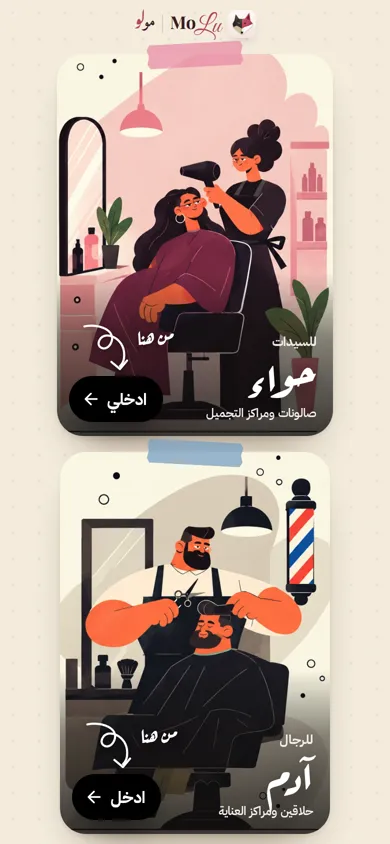
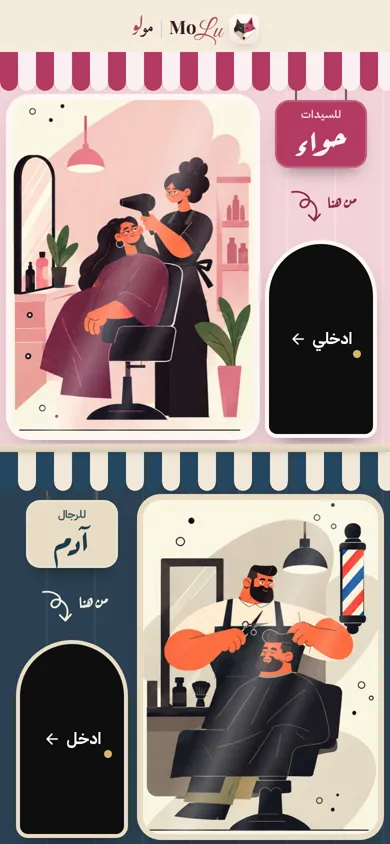
MoLu gate: «شارع مولو» — two shopfronts, one above the other
Replaces the split screen. حواء is a blush salon front (rose-striped
awning, rose sign), آدم a navy barber front (navy-striped awning, brass
sign); each shop window has the picture's own shape so the whole
illustration shows; a black arched door says «ادخلي / ادخل» with the
hand-drawn «من هنا» pointing at it; the MoLu logo sits on the roof.
2D motion only: awnings roll down, signs swing and settle, windows light
up, the arrow draws; choosing opens the home screen with a quick fade.

Claude-Session: https://claude.ai/code/session_01YDDWUymGc1xUJNLzFw3adr

diff --git a/molu/css/gate.css b/molu/css/gate.css
@@ -1,5 +1,7 @@
-/* Gate — split screen: حواء fills the top half, آدم the bottom half, edge to edge; the MoLu medallion
-   sits where they meet. Static: no app CSS/JS. Motion: halves fade in, medallion pops, arrows draw. */
+/* Gate — «شارع مولو»: a little street of two shopfronts, one above the other.
+   حواء: blush salon front, rose-striped awning, rose sign. آدم: navy barber front, navy-striped awning, brass sign.
+   Each shop window shows its whole illustration (window = the picture's own shape); a black arched door says «ادخلي/ادخل».
+   Static: no app CSS/JS. Motion (2D, quick): awnings roll down, signs swing and settle, windows light up, «من هنا» draws. */
 @view-transition { navigation: auto; }
 ::view-transition-old(root), ::view-transition-new(root) { animation-duration: .15s; }
 :root { --ease: cubic-bezier(.22, 1, .36, 1); --cream: #F4ECDD; }
@@ -8,50 +10,73 @@ html, body { margin: 0; height: 100%; background: var(--cream); }
 body { color: #2D2D2D; font-family: 'IBM Plex Sans Arabic', system-ui, sans-serif; -webkit-font-smoothing: antialiased; overscroll-behavior: none; }
 a { color: inherit; text-decoration: none; -webkit-tap-highlight-color: transparent; }
 
-.split { position: relative; height: 100dvh; min-height: 560px; display: grid; grid-template-rows: minmax(0, 1fr) minmax(0, 1fr); gap: 8px; background: var(--cream); }
-@media (min-width: 820px) { .split { grid-template-rows: none; grid-template-columns: 1fr 1fr; } }
+.street { height: 100dvh; min-height: 600px; display: grid; grid-template-rows: auto minmax(0, 1fr) 8px minmax(0, 1fr); padding: max(6px, env(safe-area-inset-top)) 0 0; background: var(--cream); overflow: hidden; }
 
-.half { position: relative; isolation: isolate; display: block; min-height: 0; overflow: hidden; background: #FAF6E2; animation: show .45s var(--ease) both; }
-.half.eve { border-radius: 0 0 30px 30px; }
-.half.adam { border-radius: 30px 30px 0 0; animation-delay: .07s; }
-@media (min-width: 820px) { .half.eve { border-radius: 0 30px 30px 0; } .half.adam { border-radius: 30px 0 0 30px; } }
-.half img { position: absolute; inset: 0; z-index: -2; width: 100%; height: 100%; object-fit: cover; object-position: 50% 38%; transition: transform .25s var(--ease); }
-.half.adam img { object-position: 50% 30%; }
-.half::after { content: ''; position: absolute; inset: 45% 0 0; z-index: -1; background: linear-gradient(180deg, transparent, rgba(16, 13, 11, .5) 45%, rgba(16, 13, 11, .82)); }
-.half.eve::after { inset: 40% 0 0; }
-.half:active img { transform: scale(1.02); }
-.half:focus-visible { outline: 3px solid #2D2D2D; outline-offset: -6px; }
+/* roof with the MoLu name */
+.roof { display: flex; justify-content: center; align-items: center; height: 46px; }
+.molu-logo { display: inline-flex; align-items: center; gap: 7px; }
+.logo-mark { width: 30px; height: 30px; border-radius: 9px; flex: none; box-shadow: 0 4px 12px -6px rgba(90, 42, 51, .45); }
+.logo-latin { display: inline-flex; align-items: baseline; line-height: 1; }
+.logo-latin .mo { font: 700 1.15rem/1 'MoLu Mo', 'Playfair Display', Georgia, serif; color: #3A1C24; }
+.logo-latin .lu { display: inline-block; font: 400 1.6rem/1 'MoLu Lu', 'Great Vibes', cursive; color: #B0485C; margin-left: -.08em; transform: translateY(.12em); }
+.logo-sep { width: 1px; height: 18px; background: #D9CDB9; }
+.logo-ar { display: inline-flex; align-items: baseline; font-size: 1.05rem; line-height: 1; }
+.logo-ar .mo { font-family: 'MoLu Naskh', 'Amiri', serif; font-weight: 700; color: #3A1C24; }
+.logo-ar .lu { display: inline-block; font-family: 'MoLu Nastaliq', 'Gulzar', serif; font-size: 1.35em; color: #B0485C; margin-inline-start: -.12em; transform: translateY(.12em); }
 
-.cap { position: absolute; inset-inline: 20px 150px; bottom: 18px; display: grid; color: #fff; }
-.half.eve .cap { bottom: 30px; }
-.cap small { font: 700 .82rem 'IBM Plex Sans Arabic', sans-serif; opacity: .88; }
-.cap b { font: 700 clamp(3rem, 15vw, 5.4rem)/1.05 'Aref Ruqaa', serif; padding-bottom: .3em; margin-bottom: -.2em; text-shadow: 0 4px 18px rgba(0, 0, 0, .4); }
-.cap span { font: 600 .8rem/1.4 'IBM Plex Sans Arabic', sans-serif; opacity: .92; }
+.ledge { display: block; background: linear-gradient(#E9DFCB, #D8CBB3); box-shadow: 0 3px 6px -3px rgba(60, 40, 20, .4); position: relative; z-index: 3; }
 
-/* iPhone-style black pill + the hand-drawn «من هنا» pointing at it */
-.go { position: absolute; inset-inline-end: 18px; bottom: 20px; display: inline-flex; align-items: center; gap: 8px; height: 52px; padding: 0 20px 0 14px; border-radius: 26px;
-  background: #000; color: #fff; font: 700 1.05rem 'IBM Plex Sans Arabic', -apple-system, system-ui, sans-serif; box-shadow: 0 12px 26px -10px rgba(0, 0, 0, .7); }
-.half.eve .go { bottom: 32px; }
-.go svg { transition: transform .2s var(--ease); }
-.half:active .go svg { transform: translateX(-4px); }
-.hint { position: absolute; z-index: 2; inset-inline-end: 24px; bottom: 78px; display: flex; align-items: flex-end; color: #fff; pointer-events: none; }
-.half.eve .hint { bottom: 90px; }
-.hint span { font: 700 1.3rem/1 'Aref Ruqaa', serif; text-shadow: 0 2px 10px rgba(0, 0, 0, .55); transform: translateY(-26px); animation: fadein .3s .5s ease-out both; }
-.squig { width: 64px; height: 50px; fill: none; stroke: #fff; stroke-width: 3; stroke-linecap: round; stroke-linejoin: round; filter: drop-shadow(0 2px 4px rgba(0, 0, 0, .45)); transform: scaleX(-1); }
-.squig path { stroke-dasharray: 1; stroke-dashoffset: 1; animation: draw .6s .55s ease-out forwards; }
-.squig .head { animation-delay: 1.1s; animation-duration: .2s; }
+/* a shop */
+.shop { --facade: #F2D3D8; --trim: #B23A63; --stripe2: #FBEFF1; --frame: #FFF7F5; --plaque: #B23A63; --plaque-ink: #FFF4F0; --hint: #8E2B4F;
+  position: relative; display: grid; grid-template-rows: 30px minmax(0, 1fr); min-height: 0;
+  background: repeating-linear-gradient(90deg, rgba(255, 255, 255, .0) 0 46px, rgba(255, 255, 255, .22) 46px 48px), var(--facade); }
+.shop.adam { --facade: #2B4253; --trim: #24475F; --stripe2: #F1E8D8; --frame: #E9DCC4; --plaque: #E9DCC4; --plaque-ink: #1F3A4E; --hint: #F4ECDD;
+  background: repeating-linear-gradient(90deg, rgba(255, 255, 255, 0) 0 46px, rgba(255, 255, 255, .05) 46px 48px), var(--facade); }
 
-/* the MoLu medallion where the two halves meet */
-.medal { position: absolute; z-index: 5; left: 50%; top: 50%; translate: -50% -50%; display: inline-flex; align-items: center; gap: 6px; height: 54px; padding: 0 16px 0 8px; border-radius: 27px;
-  background: var(--cream); box-shadow: 0 0 0 5px var(--cream), 0 10px 24px -10px rgba(60, 40, 20, .5); animation: pop .4s .2s cubic-bezier(.3, 1.4, .5, 1) both; direction: ltr; }
-.logo-mark { width: 38px; height: 38px; border-radius: 11px; flex: none; }
-.medal-word { display: inline-flex; align-items: baseline; line-height: 1; }
-.medal-word .mo { font: 700 1.3rem/1 'MoLu Mo', 'Playfair Display', Georgia, serif; color: #3A1C24; }
-.medal-word .lu { display: inline-block; font: 400 1.8rem/1 'MoLu Lu', 'Great Vibes', cursive; color: #B0485C; margin-left: -.08em; transform: translateY(.12em); }
+/* striped awning with a scalloped edge — rolls down on load */
+.awning { position: relative; z-index: 2; display: block; transform-origin: 50% 0; animation: unroll .38s var(--ease) both;
+  background: repeating-linear-gradient(90deg, var(--trim) 0 18px, var(--stripe2) 18px 36px); box-shadow: 0 6px 10px -6px rgba(0, 0, 0, .35); }
+.awning::after { content: ''; position: absolute; inset-inline: 0; bottom: -9px; height: 9px;
+  background: radial-gradient(circle at 9px 0, var(--trim) 8.6px, transparent 9px) 0 0 / 36px 9px repeat-x,
+              radial-gradient(circle at 27px 0, var(--stripe2) 8.6px, transparent 9px) 0 0 / 36px 9px repeat-x; }
+.shop.adam .awning { animation-delay: .08s; }
 
-@keyframes show { from { opacity: 0; } }
-@keyframes pop { from { opacity: 0; scale: .5; } }
+.facade { container-type: size; min-height: 0; display: flex; align-items: flex-end; gap: 10px; padding: 18px 12px 10px; direction: ltr; }
+.shop.adam .facade { flex-direction: row-reverse; }   /* حواء's window on the left, آدم's on the right — as in the artwork */
+
+/* the shop window: exactly the picture's shape, so the whole illustration shows */
+.window { position: relative; flex: none; height: 100%; max-width: 68cqw; aspect-ratio: var(--ar); border-radius: 18px; overflow: hidden; background: #FAF6E2;
+  box-shadow: 0 0 0 6px var(--frame), 0 14px 28px -12px rgba(0, 0, 0, .5); }
+.window img { display: block; width: 100%; height: 100%; object-fit: cover; animation: lights .6s .15s ease-out both; }
+.shop.adam .window img { animation-delay: .25s; }
+.glass { position: absolute; inset: 0; background: linear-gradient(115deg, transparent 42%, rgba(255, 255, 255, .28) 50%, transparent 58%), linear-gradient(115deg, transparent 60%, rgba(255, 255, 255, .14) 64%, transparent 68%); pointer-events: none; }
+
+/* sign, «من هنا», door */
+.side { flex: 1; min-width: 0; height: 100%; display: flex; flex-direction: column; align-items: center; justify-content: space-between; gap: 6px; direction: rtl; }
+.sign { position: relative; display: grid; justify-items: center; min-width: 92px; padding: 6px 14px 4px; border-radius: 14px; background: var(--plaque); color: var(--plaque-ink);
+  box-shadow: 0 10px 18px -10px rgba(0, 0, 0, .55), inset 0 0 0 2px rgba(255, 255, 255, .18); transform-origin: 50% -14px; animation: swing 1s .3s both; }
+.sign::before, .sign::after { content: ''; position: absolute; top: -16px; width: 2px; height: 16px; background: #6B5E50; }
+.sign::before { left: 22%; } .sign::after { right: 22%; }
+.sign small { font: 700 .7rem 'IBM Plex Sans Arabic', sans-serif; opacity: .85; }
+.sign b { font: 700 clamp(1.9rem, 9vw, 2.8rem)/1.1 'Aref Ruqaa', serif; padding-bottom: .18em; margin-top: -.1em; }
+.shop.adam .sign { animation-delay: .4s; }
+.hint { display: flex; align-items: flex-end; color: var(--hint); pointer-events: none; }
+.hint span { font: 700 1.05rem/1 'Aref Ruqaa', serif; transform: translateY(-14px); animation: fadein .3s .7s ease-out both; }
+.squig { width: 42px; height: 34px; fill: none; stroke: var(--hint); stroke-width: 2.6; stroke-linecap: round; stroke-linejoin: round; transform: scaleX(-1); }
+.squig path { stroke-dasharray: 1; stroke-dashoffset: 1; animation: draw .5s .75s ease-out forwards; }
+.squig .head { animation-delay: 1.2s; animation-duration: .18s; }
+.door { position: relative; display: grid; place-items: center; width: min(100%, 104px); flex: 1; max-height: 190px; min-height: 120px; border-radius: 52px 52px 8px 8px; background: #0E0E0E; color: #fff;
+  box-shadow: 0 0 0 4px var(--frame), 0 12px 24px -10px rgba(0, 0, 0, .7); transition: transform .16s ease-out; animation: fadein .35s .3s ease-out both; }
+.door .lbl { display: inline-flex; align-items: center; gap: 5px; font: 700 1rem 'IBM Plex Sans Arabic', -apple-system, system-ui, sans-serif; }
+.knob { position: absolute; top: 56%; inset-inline-start: 12px; width: 8px; height: 8px; border-radius: 50%; background: #D8B46A; }
+.shop:active .door { transform: scale(.95); }
+.shop:focus-visible { outline: 3px solid var(--trim); outline-offset: -4px; }
+
+@keyframes unroll { from { transform: scaleY(0); } }
+@keyframes swing { 0% { opacity: 0; transform: rotate(-16deg); } 35% { opacity: 1; transform: rotate(9deg); } 60% { transform: rotate(-5deg); } 80% { transform: rotate(2deg); } 100% { transform: rotate(0); } }
+@keyframes lights { from { filter: brightness(.45) saturate(.5); } }
 @keyframes draw { to { stroke-dashoffset: 0; } }
 @keyframes fadein { from { opacity: 0; } }
 .ms { display: block; flex: none; }
-@media (prefers-reduced-motion: reduce) { .half, .medal, .hint span { animation: none; } .squig path { animation: none; stroke-dashoffset: 0; } }
+@media (min-width: 820px) { .street { grid-template-rows: auto minmax(0, 1fr) 8px minmax(0, 1fr); max-width: 760px; margin: 0 auto; } }
+@media (prefers-reduced-motion: reduce) { .awning, .sign, .window img, .door, .hint span { animation: none; } .squig path { animation: none; stroke-dashoffset: 0; } }

diff --git a/molu/index.html b/molu/index.html
@@ -14,20 +14,31 @@
 <link rel="prefetch" href="explore.html">
 </head>
 <body>
-<main class="split" id="gate">
-  <a class="half eve" href="explore.html?s=eve" data-k="eve" aria-label="ادخلي قسم حواء — صالونات ومراكز التجميل للسيدات">
-    <img src="img/eve-full-960.webp" srcset="img/eve-full-560.webp 560w, img/eve-full-960.webp 628w" sizes="100vw" width="628" height="868" alt="" decoding="async" fetchpriority="high">
-    <span class="cap"><small>للسيدات</small><b>حواء</b><span>صالونات ومراكز التجميل</span></span>
-    <span class="hint" aria-hidden="true"><span>من هنا</span><svg class="squig" viewBox="0 0 90 70" aria-hidden="true"><path pathLength="1" d="M74 6C52 2 30 12 36 28s24 8 16-4-34-2-34 22c0 8 2 12 6 16"/><path pathLength="1" class="head" d="M14 54l10 12 12-10"/></svg></span>
-    <span class="go">ادخلي<svg class="ms " viewBox="0 -960 960 960" width="20" height="20" aria-hidden="true"><path fill="currentColor" d="m313-440 196 196q12 12 11.5 28T508-188q-12 11-28 11.5T452-188L188-452q-6-6-8.5-13t-2.5-15q0-8 2.5-15t8.5-13l264-264q11-11 27.5-11t28.5 11q12 12 12 28.5T508-715L313-520h447q17 0 28.5 11.5T800-480q0 17-11.5 28.5T760-440H313Z"/></svg></span>
+<main class="street" id="gate">
+  <header class="roof"><a class="molu-logo" href="index.html" aria-label="MoLu مولو"><svg class="logo-mark" aria-hidden="true" xmlns="http://www.w3.org/2000/svg" viewBox="0 0 100 100"><defs><linearGradient id="b" x1="0" y1="0" x2="0" y2="1"><stop offset="0" stop-color="#fffaf7"/><stop offset="1" stop-color="#f3e4de"/></linearGradient><filter id="sh" x="-20%" y="-20%" width="140%" height="150%"><feDropShadow dx="0" dy="1.8" stdDeviation="1.8" flood-color="#5a2a33" flood-opacity=".28"/></filter></defs><rect width="100" height="100" rx="22" fill="url(#b)"/><g transform="translate(7 6.14) scale(0.86)" filter="url(#sh)"><path d="M50 30 L37 29 L24 11 L19 36 L11 50 L14 64 L30 78 L44 91 L50 94 Z" fill="#352f2c"/><path d="M26 17 L22 34 L33 30 Z" fill="#5e534c"/><path d="M50 30 L63 28 L80 4 L85 38 L95 50 L90 62 L72 76 L56 90 L50 94 Z" fill="#bd4b61"/><path d="M79 11 L82 34 L68 29 Z" fill="#7d2537"/><path d="M50 30 L37 29 L44 46 L50 44 Z" fill="#fff" opacity=".09"/><path d="M50 30 L63 28 L56 46 L50 44 Z" fill="#fff" opacity=".13"/><path d="M19 36 L11 50 L14 64 L28 58 Z" fill="#000" opacity=".16"/><path d="M85 38 L95 50 L90 62 L74 60 Z" fill="#000" opacity=".14"/><path d="M24 11 L19 36 L30 30 Z" fill="#000" opacity=".12"/><path d="M80 4 L85 38 L72 30 Z" fill="#000" opacity=".1"/><path d="M14 64 L30 78 L44 91 L50 94 L50 70 L40 64 L28 58 Z" fill="#d2bf9f"/><path d="M95 50 L90 62 L72 76 L56 90 L50 94 L50 70 L60 64 L74 60 Z" fill="#fff"/><path d="M50 70 L40 64 L44 91 L50 94 Z" fill="#000" opacity=".07"/><path d="M50 70 L60 64 L56 90 L50 94 Z" fill="#000" opacity=".05"/><path d="M30 44 Q37 44.5 44 49 Q36.5 51.5 30 44 Z" fill="#a8957f"/><path d="M68 49 Q62 44 56 48 Q62 52 68 49 Z" fill="#171412"/><path d="M44 84 Q50 81 56 84 L50 93 Z" fill="#171412"/></g></svg><span class="logo-latin" dir="ltr"><span class="mo">Mo</span><span class="lu">Lu</span></span><span class="logo-sep"></span><span class="logo-ar"><span class="mo">مو</span><span class="lu">لو</span></span></a></header>
+  <a class="shop eve" href="explore.html?s=eve" data-k="eve" aria-label="ادخلي صالون حواء — صالونات ومراكز التجميل للسيدات">
+    <span class="awning" aria-hidden="true"></span>
+    <span class="facade">
+      <span class="window" style="--ar: 628 / 868"><img src="img/eve-full-960.webp" srcset="img/eve-full-560.webp 560w, img/eve-full-960.webp 628w" sizes="70vw" width="628" height="868" alt="" decoding="async" fetchpriority="high"><i class="glass"></i></span>
+      <span class="side">
+        <span class="sign"><small>للسيدات</small><b>حواء</b></span>
+        <span class="hint" aria-hidden="true"><span>من هنا</span><svg class="squig" viewBox="0 0 60 48" aria-hidden="true"><path pathLength="1" d="M50 4C34 2 22 10 26 20s16 6 11-2-22-1-22 14c0 5 1 8 3 10"/><path pathLength="1" class="head" d="M10 36l8 9 8-8"/></svg></span>
+        <span class="door"><span class="lbl">ادخلي<svg class="ms " viewBox="0 -960 960 960" width="18" height="18" aria-hidden="true"><path fill="currentColor" d="m313-440 196 196q12 12 11.5 28T508-188q-12 11-28 11.5T452-188L188-452q-6-6-8.5-13t-2.5-15q0-8 2.5-15t8.5-13l264-264q11-11 27.5-11t28.5 11q12 12 12 28.5T508-715L313-520h447q17 0 28.5 11.5T800-480q0 17-11.5 28.5T760-440H313Z"/></svg></span><i class="knob"></i></span>
+      </span>
+    </span>
   </a>
-  <a class="half adam" href="explore.html?s=adam" data-k="adam" aria-label="ادخل قسم آدم — حلاقين ومراكز العناية للرجال">
-    <img src="img/adam-full-960.webp" srcset="img/adam-full-560.webp 560w, img/adam-full-960.webp 612w" sizes="100vw" width="612" height="868" alt="" decoding="async" fetchpriority="high">
-    <span class="cap"><small>للرجال</small><b>آدم</b><span>حلاقين ومراكز العناية</span></span>
-    <span class="hint" aria-hidden="true"><span>من هنا</span><svg class="squig" viewBox="0 0 90 70" aria-hidden="true"><path pathLength="1" d="M74 6C52 2 30 12 36 28s24 8 16-4-34-2-34 22c0 8 2 12 6 16"/><path pathLength="1" class="head" d="M14 54l10 12 12-10"/></svg></span>
-    <span class="go">ادخل<svg class="ms " viewBox="0 -960 960 960" width="20" height="20" aria-hidden="true"><path fill="currentColor" d="m313-440 196 196q12 12 11.5 28T508-188q-12 11-28 11.5T452-188L188-452q-6-6-8.5-13t-2.5-15q0-8 2.5-15t8.5-13l264-264q11-11 27.5-11t28.5 11q12 12 12 28.5T508-715L313-520h447q17 0 28.5 11.5T800-480q0 17-11.5 28.5T760-440H313Z"/></svg></span>
+  <i class="ledge" aria-hidden="true"></i>
+  <a class="shop adam" href="explore.html?s=adam" data-k="adam" aria-label="ادخل صالون آدم — حلاقين ومراكز العناية للرجال">
+    <span class="awning" aria-hidden="true"></span>
+    <span class="facade">
+      <span class="window" style="--ar: 612 / 868"><img src="img/adam-full-960.webp" srcset="img/adam-full-560.webp 560w, img/adam-full-960.webp 612w" sizes="70vw" width="612" height="868" alt="" decoding="async" fetchpriority="high"><i class="glass"></i></span>
+      <span class="side">
+        <span class="sign"><small>للرجال</small><b>آدم</b></span>
+        <span class="hint" aria-hidden="true"><span>من هنا</span><svg class="squig" viewBox="0 0 60 48" aria-hidden="true"><path pathLength="1" d="M50 4C34 2 22 10 26 20s16 6 11-2-22-1-22 14c0 5 1 8 3 10"/><path pathLength="1" class="head" d="M10 36l8 9 8-8"/></svg></span>
+        <span class="door"><span class="lbl">ادخل<svg class="ms " viewBox="0 -960 960 960" width="18" height="18" aria-hidden="true"><path fill="currentColor" d="m313-440 196 196q12 12 11.5 28T508-188q-12 11-28 11.5T452-188L188-452q-6-6-8.5-13t-2.5-15q0-8 2.5-15t8.5-13l264-264q11-11 27.5-11t28.5 11q12 12 12 28.5T508-715L313-520h447q17 0 28.5 11.5T800-480q0 17-11.5 28.5T760-440H313Z"/></svg></span><i class="knob"></i></span>
+      </span>
+    </span>
   </a>
-  <a class="medal" href="index.html" aria-label="MoLu مولو"><svg class="logo-mark" aria-hidden="true" xmlns="http://www.w3.org/2000/svg" viewBox="0 0 100 100"><defs><linearGradient id="b" x1="0" y1="0" x2="0" y2="1"><stop offset="0" stop-color="#fffaf7"/><stop offset="1" stop-color="#f3e4de"/></linearGradient><filter id="sh" x="-20%" y="-20%" width="140%" height="150%"><feDropShadow dx="0" dy="1.8" stdDeviation="1.8" flood-color="#5a2a33" flood-opacity=".28"/></filter></defs><rect width="100" height="100" rx="22" fill="url(#b)"/><g transform="translate(7 6.14) scale(0.86)" filter="url(#sh)"><path d="M50 30 L37 29 L24 11 L19 36 L11 50 L14 64 L30 78 L44 91 L50 94 Z" fill="#352f2c"/><path d="M26 17 L22 34 L33 30 Z" fill="#5e534c"/><path d="M50 30 L63 28 L80 4 L85 38 L95 50 L90 62 L72 76 L56 90 L50 94 Z" fill="#bd4b61"/><path d="M79 11 L82 34 L68 29 Z" fill="#7d2537"/><path d="M50 30 L37 29 L44 46 L50 44 Z" fill="#fff" opacity=".09"/><path d="M50 30 L63 28 L56 46 L50 44 Z" fill="#fff" opacity=".13"/><path d="M19 36 L11 50 L14 64 L28 58 Z" fill="#000" opacity=".16"/><path d="M85 38 L95 50 L90 62 L74 60 Z" fill="#000" opacity=".14"/><path d="M24 11 L19 36 L30 30 Z" fill="#000" opacity=".12"/><path d="M80 4 L85 38 L72 30 Z" fill="#000" opacity=".1"/><path d="M14 64 L30 78 L44 91 L50 94 L50 70 L40 64 L28 58 Z" fill="#d2bf9f"/><path d="M95 50 L90 62 L72 76 L56 90 L50 94 L50 70 L60 64 L74 60 Z" fill="#fff"/><path d="M50 70 L40 64 L44 91 L50 94 Z" fill="#000" opacity=".07"/><path d="M50 70 L60 64 L56 90 L50 94 Z" fill="#000" opacity=".05"/><path d="M30 44 Q37 44.5 44 49 Q36.5 51.5 30 44 Z" fill="#a8957f"/><path d="M68 49 Q62 44 56 48 Q62 52 68 49 Z" fill="#171412"/><path d="M44 84 Q50 81 56 84 L50 93 Z" fill="#171412"/></g></svg><span class="medal-word"><span class="mo">Mo</span><span class="lu">Lu</span></span></a>
 </main>
 <script>
 // tiny on purpose: no framework, no app modules — the first screen paints immediately
